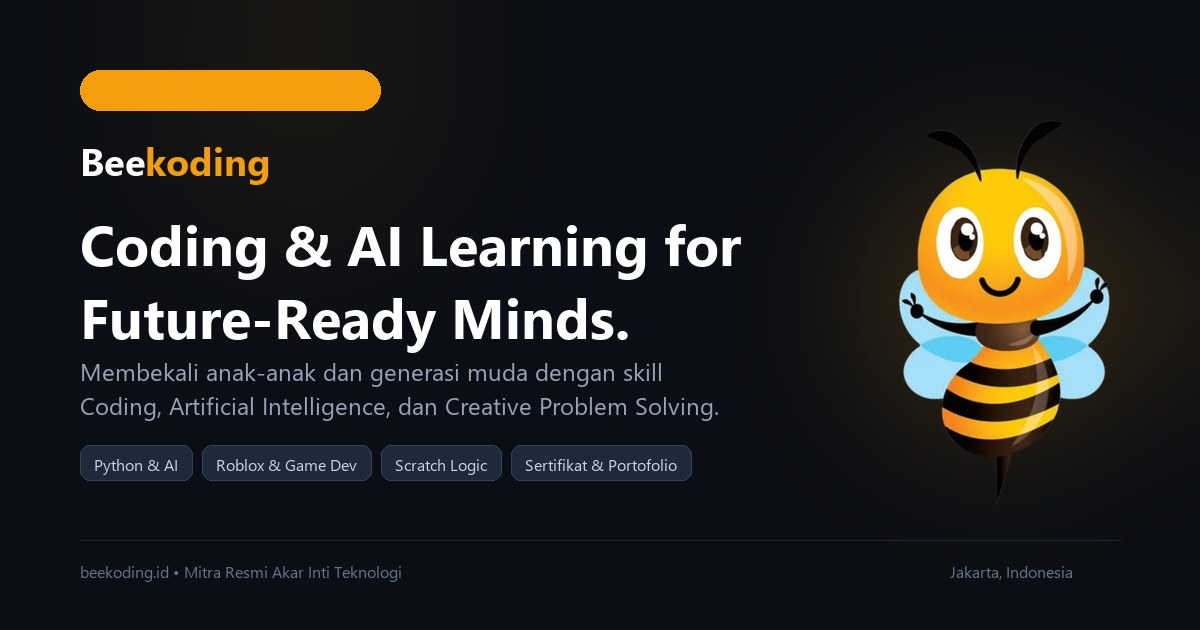
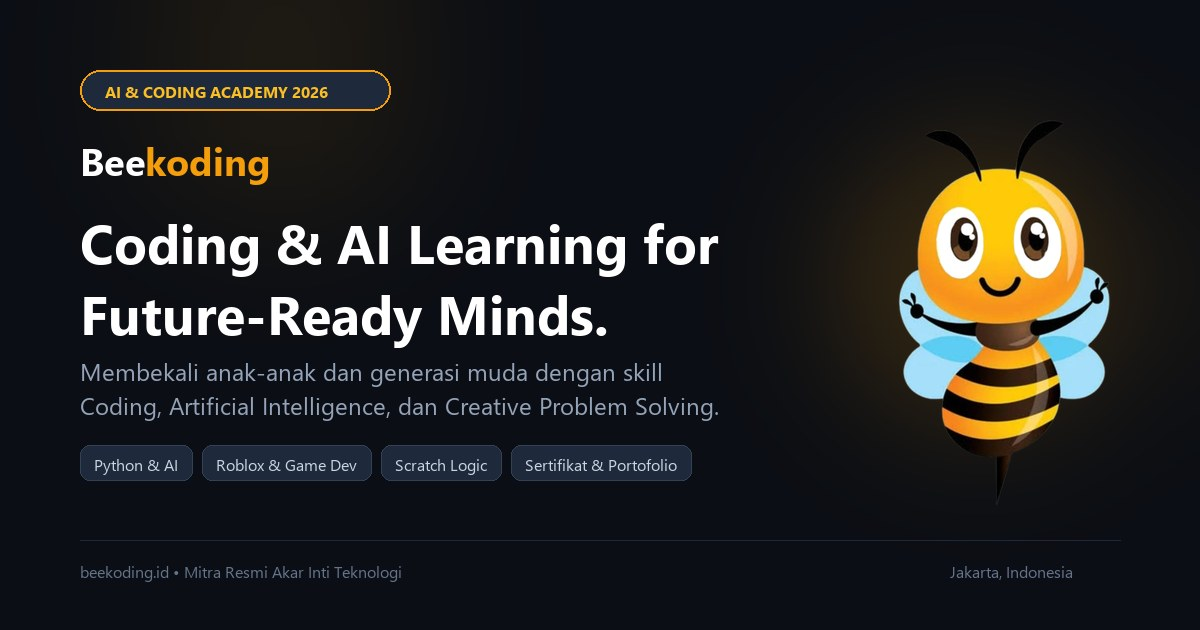
fix(seo): update Open Graph image URLs to live pages.dev domain and fix badge styling

Changed region(s): [[0.0617, 0.3619, 0.6167, 0.4524], [0.0617, 0.4524, 0.5242, 0.573], [0.0617, 0.0905, 0.3392, 0.181]]

diff --git a/index.html b/index.html
@@ -25,30 +25,32 @@
 
     <!-- Open Graph / WhatsApp / Facebook Preview Metadata -->
     <meta property="og:type" content="website" />
-    <meta property="og:url" content="https://beekoding.id/" />
+    <meta property="og:url" content="https://beekoding.pages.dev/" />
     <meta property="og:title" content="Beekoding | Coding & AI Learning for Future-Ready Minds" />
     <meta
       property="og:description"
       content="Platform edukasi Koding & Artificial Intelligence interaktif untuk anak dan remaja. Membangun logika, kreativitas, dan portofolio teknologi masa depan."
     />
-    <meta property="og:image" content="https://beekoding.id/og-image.jpg" />
-    <meta property="og:image:secure_url" content="https://beekoding.id/og-image.jpg" />
+    <meta property="og:image" content="https://beekoding.pages.dev/og-image.jpg" />
+    <meta property="og:image:secure_url" content="https://beekoding.pages.dev/og-image.jpg" />
     <meta property="og:image:type" content="image/jpeg" />
     <meta property="og:image:width" content="1200" />
     <meta property="og:image:height" content="630" />
     <meta property="og:image:alt" content="Beekoding - Coding & AI Learning for Future-Ready Minds" />
     <meta property="og:site_name" content="Beekoding" />
     <meta property="og:locale" content="id_ID" />
+    <link rel="image_src" href="https://beekoding.pages.dev/og-image.jpg" />
+    <meta itemprop="image" content="https://beekoding.pages.dev/og-image.jpg" />
 
     <!-- Twitter / X Card Metadata -->
     <meta name="twitter:card" content="summary_large_image" />
-    <meta name="twitter:url" content="https://beekoding.id/" />
+    <meta name="twitter:url" content="https://beekoding.pages.dev/" />
     <meta name="twitter:title" content="Beekoding | Coding & AI Learning for Future-Ready Minds" />
     <meta
       name="twitter:description"
       content="Platform edukasi Koding & Artificial Intelligence interaktif untuk anak dan remaja."
     />
-    <meta name="twitter:image" content="https://beekoding.id/og-image.jpg" />
+    <meta name="twitter:image" content="https://beekoding.pages.dev/og-image.jpg" />
 
     <!-- Critical Resource Preloads for Instant First Contentful Paint -->
     <link rel="preload" as="image" href="/bee-mascot.png" type="image/png" />
